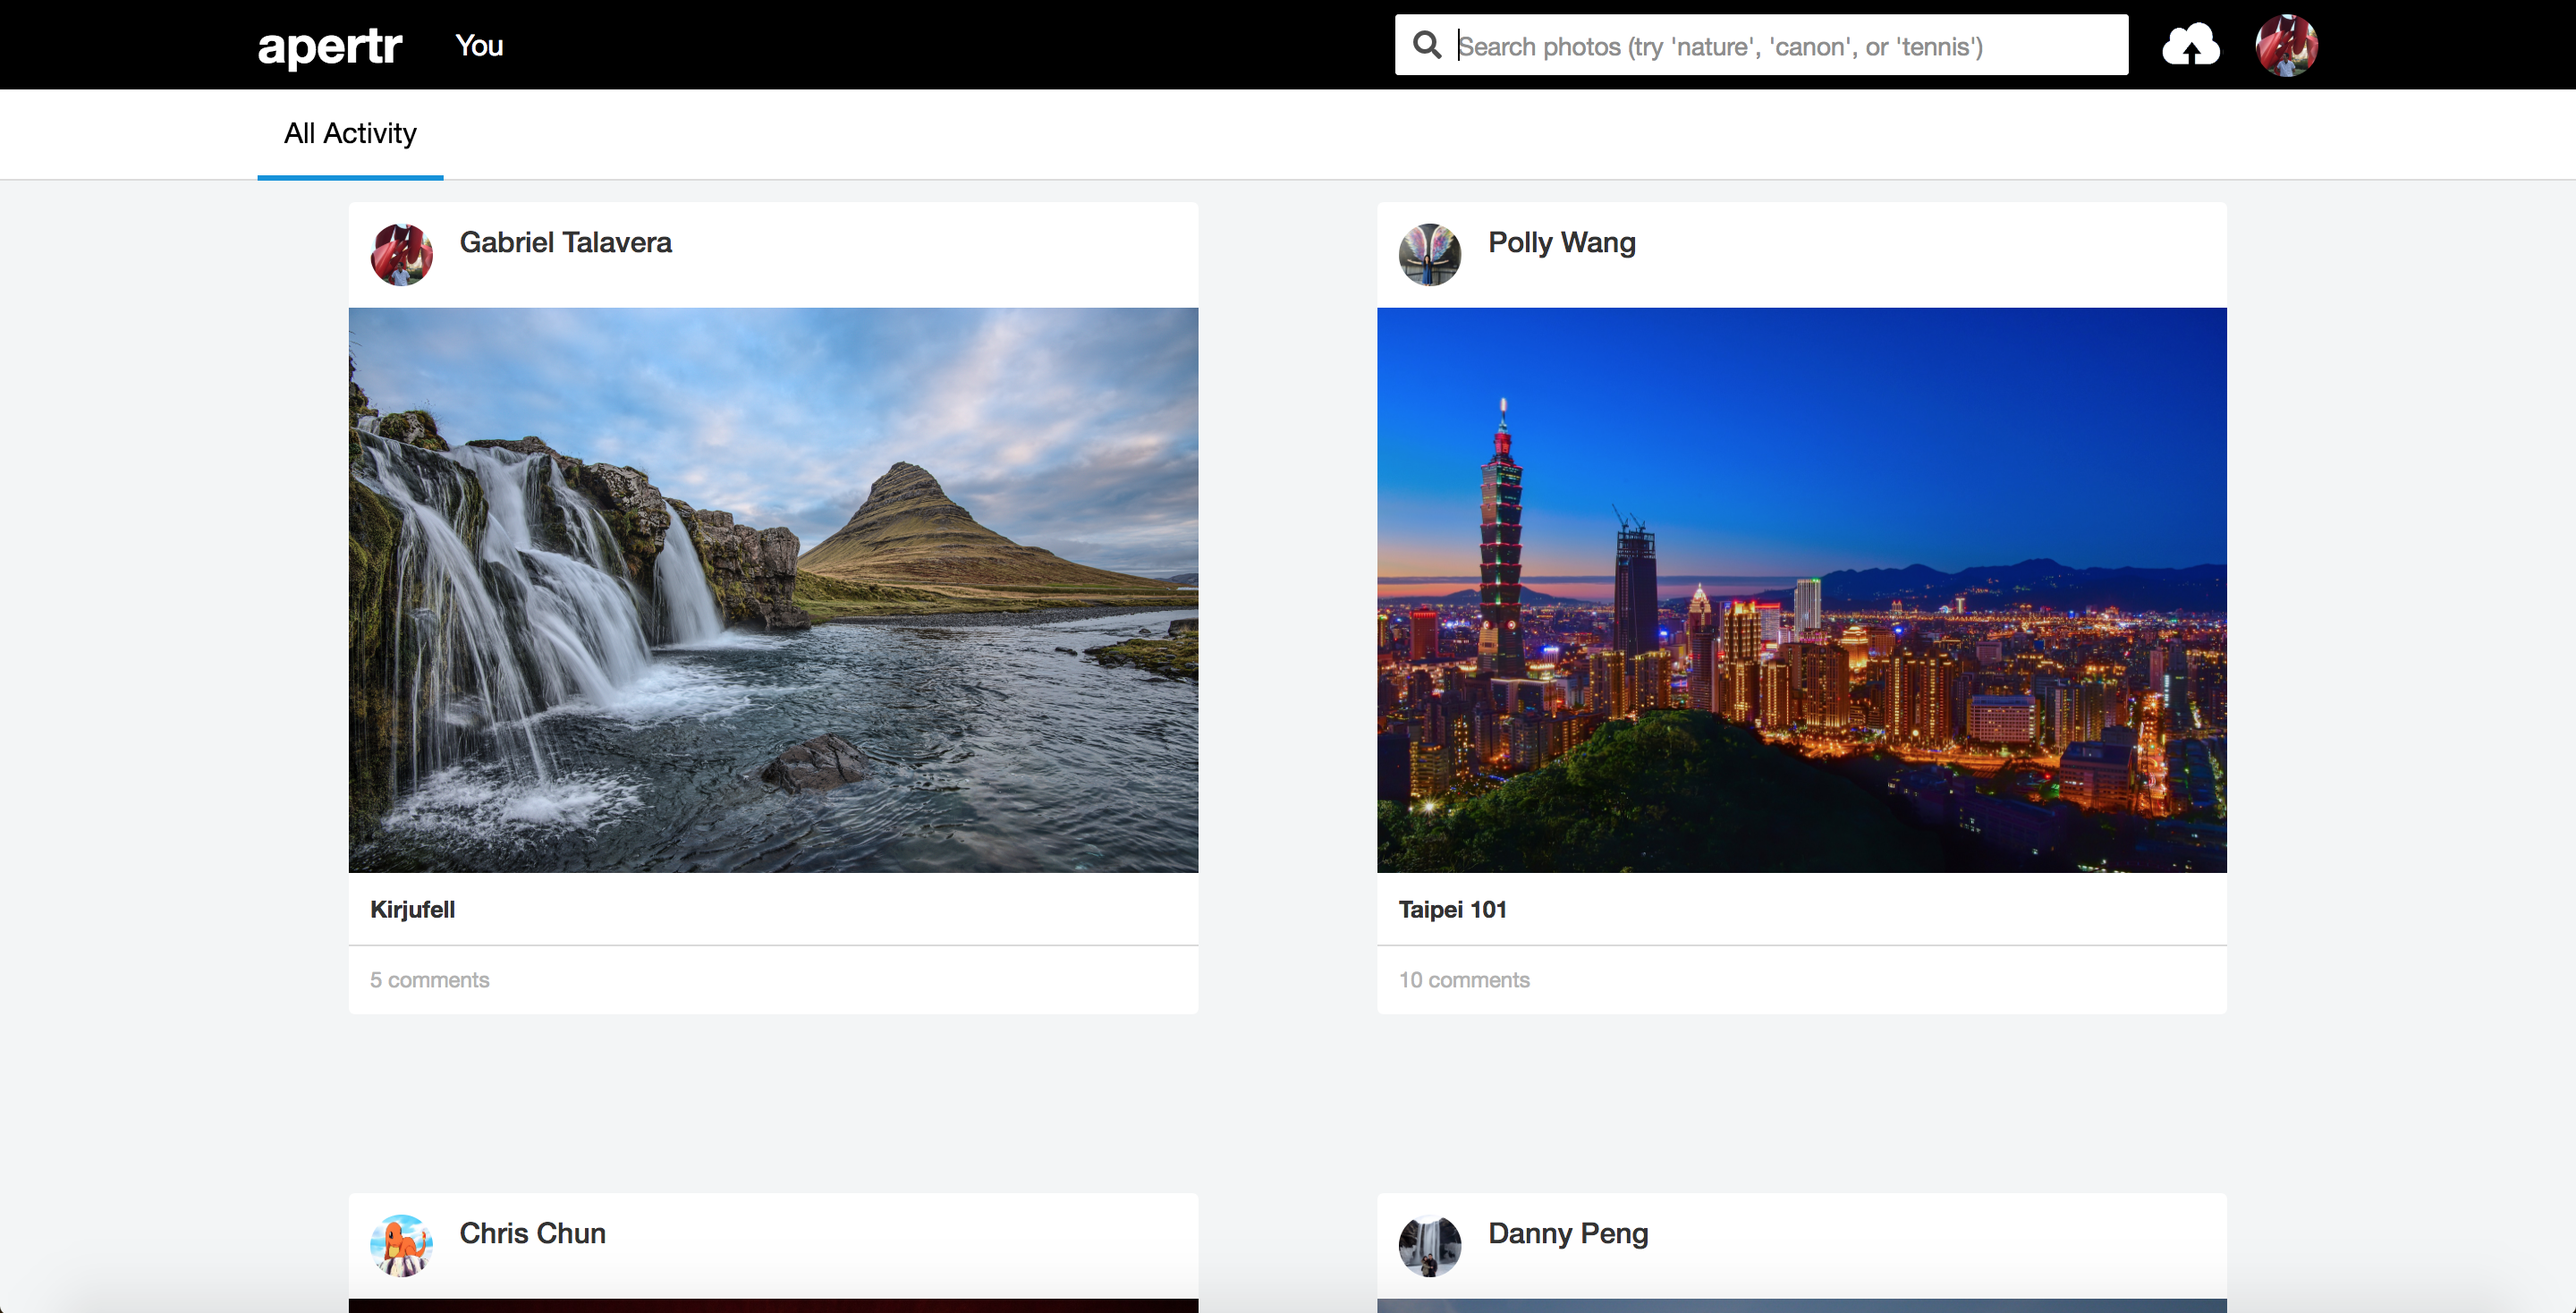
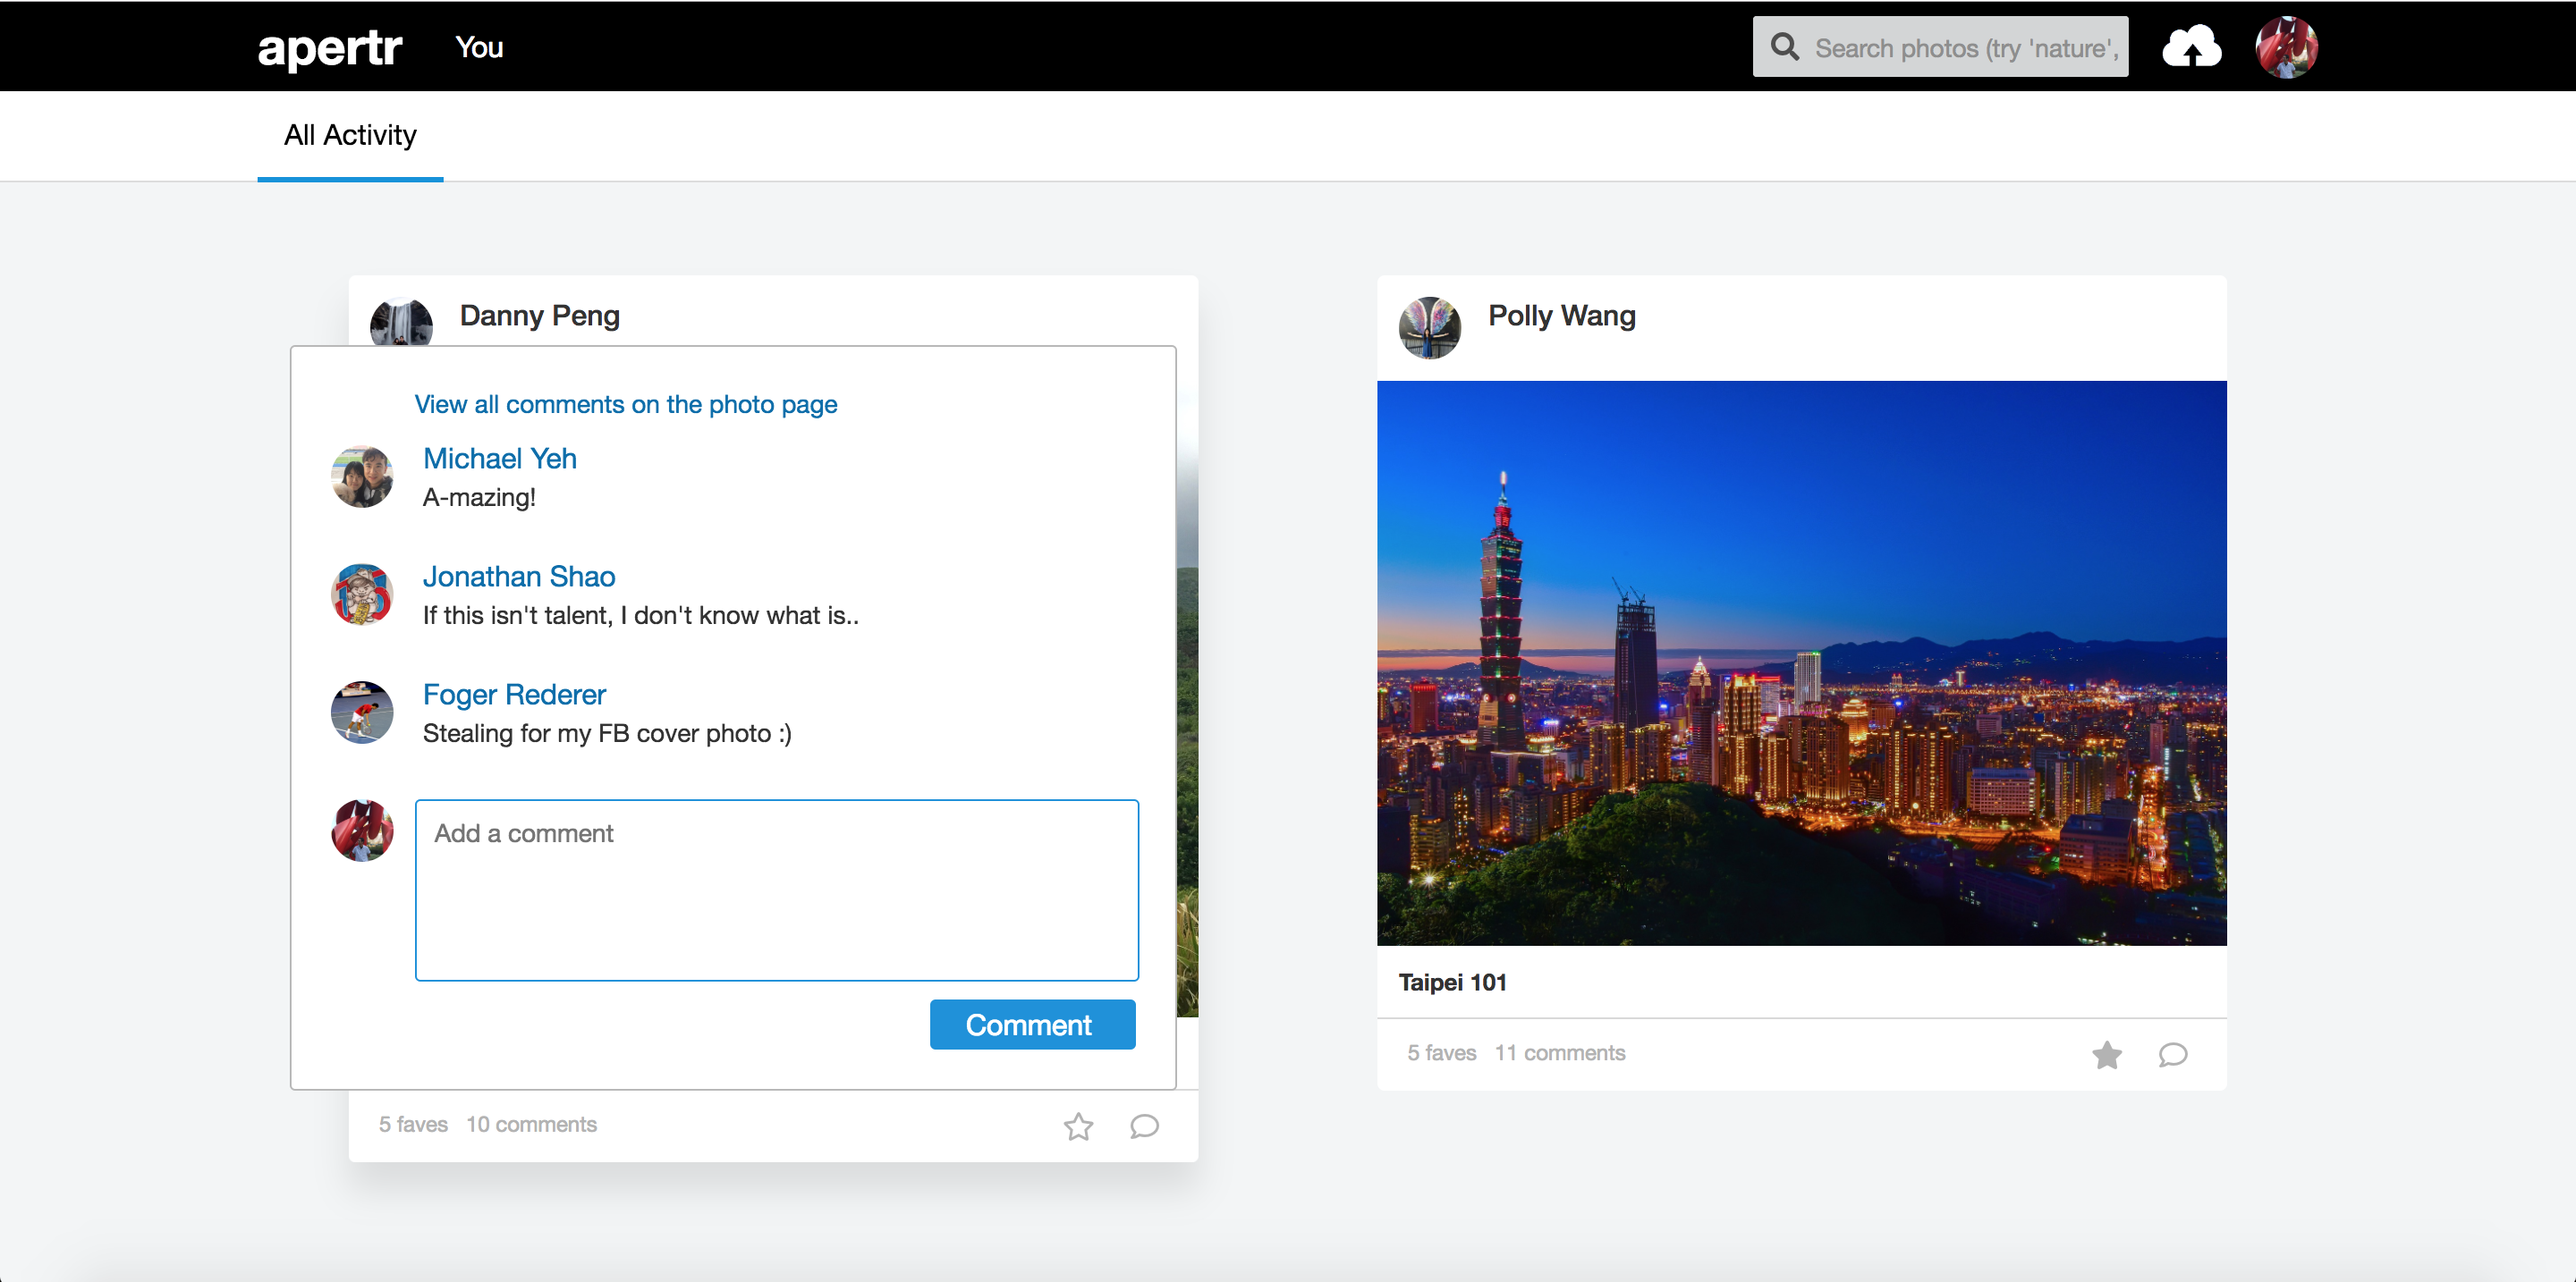
updates to README

diff --git a/README.md b/README.md
@@ -10,18 +10,19 @@ The project was initially built on an approximately 10 day timeline, where most 
 
 ## Features
 <ul>
-  <li>Users can sign up or log in via a frontend to backend user authentication that is secured through BCrypt.</li>
+  <li>Users can sign up or log in via a user authentication that is secured with BCrypt hashing.</li>
   <li>Users can upload photos which are stored securely via Amazon Web Services(AWS) S3.</li>
+  <li>Users can fave photos and add comments directly on the feed page.
   <li>Users can access their photostream and albums on their own user profile page that also has customizable profile and cover photo.</li>
-  <li>Users can view each photo on its own display page, where it contains the photo's information as well as a comments and tags section. If the current user is the photo's owner, he/she can also update or delete the photo as well as any associated comments or tags.</li>
+  <li>Users can view each photo on its own display page, where it contains the photo's information as well as faves, comments and tags sections. If the current user is the photo's owner, he/she can also update the photo's title/description and delete any of the photo's comments or tags.</li>
   <li>Users can create, update, and delete albums with their uploaded photos.</li>
-  <li>Users that are logged in can post/edit/delete their own comments or add tag words on any photo's display page.
+  <li>Users can post/edit/delete their own comments or add tag words on any photo's display page.
   <li>Users can search for photos by looking up tag words.
 </ul>
 
 #### Structured Feed
 
-After logging in, the feed page shows a list of photos from all users in a polaroid-like format and each contains some information about the photo, including the author's name that is also a link redirecting to that user's profile page where you can view his/her photostream and albums. The feed container is responsive and will show different columns of photos depending on the width of viewport. Currently, there are some awkward vertical spaces between photos in each column; this will be addressed in the future with CSS grid.
+After logging in, the feed page shows a list of photos from all users in a polaroid-like format and each contains some information about the photo, including the author's name that is also a link redirecting to that user's profile page where you can view his/her photostream and albums. Each photo also has fave and comment functionalities built in and updates asynchronously through React's state management and diffing algorithm. The feed container is responsive and will show different columns of photos depending on the width of viewport. Currently, there are some awkward vertical spaces between photos in each column; this will be addressed in the future with CSS grid.
 
 ![alt text](https://github.com/Eractus/Apertr/blob/master/app/assets/images/feed.png)
 
@@ -132,6 +133,5 @@ Finally, Heroku was used to host production for similar reasons as Rails in term
 
 <ul>
   <li>Drag and drop, multi-upload for photos</li>
-  <li>Faves</li>
   <li>Broader search bar</li>
 </ul>
